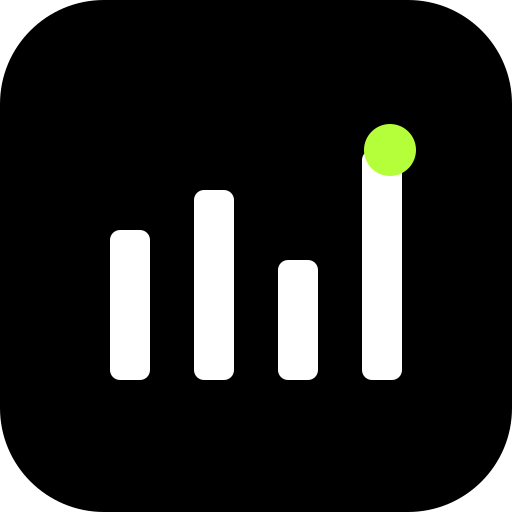
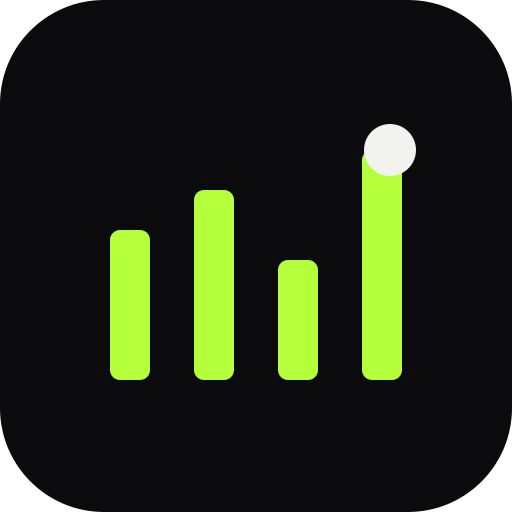
feat(theme): default to signature lime-on-near-black "employee" palette
- ThemeProvider default: light → employee
- index.html flash-prevention script defaults to employee, paints
  #0b0b0d on <html>/<body> via inline <style> so first paint doesn't
  flash white before Tailwind CSS loads
- Single <meta name="theme-color" content="#0b0b0d"> (dropped the
  prefers-color-scheme variants — the default is dark regardless)
- PWA manifest: theme_color #b4ff39 (lime), background_color #0b0b0d
  (near-black splash)
- Icons (icon.svg + icon-maskable.svg) rewritten from indigo gradient
  to near-black tile with lime pulse bars and a cream accent dot;
  PNGs regenerated via a scratch sharp install (favicon-32,
  apple-touch-icon, icon-192, icon-512, icon-maskable-512)

Matches the pulsehr.it marketing identity.

diff --git a/apps/app/index.html b/apps/app/index.html
@@ -3,8 +3,7 @@
   <head>
     <meta charset="UTF-8" />
     <meta name="viewport" content="width=device-width, initial-scale=1.0" />
-    <meta name="theme-color" content="#0b0b0d" media="(prefers-color-scheme: dark)" />
-    <meta name="theme-color" content="#fafaf7" media="(prefers-color-scheme: light)" />
+    <meta name="theme-color" content="#0b0b0d" />
     <meta name="description" content="Pulse HR is a modern HR, payroll and people platform for teams that want one surface instead of six." />
     <meta name="apple-mobile-web-app-capable" content="yes" />
     <meta name="apple-mobile-web-app-status-bar-style" content="black-translucent" />
@@ -18,13 +17,21 @@
     <link rel="preconnect" href="https://fonts.gstatic.com" crossorigin />
     <link rel="stylesheet" href="https://fonts.googleapis.com/css2?family=Fraunces:ital,opsz,wght@0,9..144,400;0,9..144,600;0,9..144,700;0,9..144,900;1,9..144,400&family=Geist:wght@300;400;500;600;700&family=JetBrains+Mono:wght@400;600&display=swap" />
     <title>Pulse HR — Modern HR & Payroll</title>
+    <style>
+      /* Paint the dark canvas before any CSS loads so the PWA splash and
+         initial route don't flash white on first paint. */
+      html, body { background-color: #0b0b0d; color: #f2f2ee; }
+      html[data-theme="light"], html[data-theme="light"] body { background-color: #fafaf7; color: #1a1a1d; }
+    </style>
     <script>
+      // Flash-prevention: set the theme on <html> before React paints. Default
+      // is the signature lime-on-near-black "employee" palette; every theme
+      // except "light" is dark-mode.
       (function () {
         try {
-          var t = localStorage.getItem("pulse.theme") || "light";
-          var darkThemes = ["dark", "employee", "hr", "admin", "manager", "finance"];
+          var t = localStorage.getItem("pulse.theme") || "employee";
           document.documentElement.dataset.theme = t;
-          if (darkThemes.indexOf(t) !== -1) document.documentElement.classList.add("dark");
+          if (t !== "light") document.documentElement.classList.add("dark");
         } catch (e) {}
       })();
     </script>

diff --git a/apps/app/vite.config.ts b/apps/app/vite.config.ts
@@ -37,8 +37,10 @@ export default defineConfig(({ mode }) => {
           short_name: "Pulse HR",
           description: "Modern HR, payroll and people platform — one surface for your whole team.",
           lang: "en",
-          theme_color: "#0b0b0d",
-          background_color: "#fafaf7",
+          // Signature lime-on-near-black identity. theme_color drives the
+          // Android status bar + title bar; background_color is the splash.
+          theme_color: "#b4ff39",
+          background_color: "#0b0b0d",
           display: "standalone",
           orientation: "any",
           start_url: "/",

diff --git a/apps/app/src/components/app/ThemeProvider.tsx b/apps/app/src/components/app/ThemeProvider.tsx
@@ -13,7 +13,8 @@ export const THEMES: { id: Theme; label: string; role?: string; swatch: string; 
 ];
 
 const STORAGE_KEY = "pulse.theme";
-const DEFAULT_THEME: Theme = "light";
+/** Signature lime-on-near-black palette matched to the marketing brand. */
+const DEFAULT_THEME: Theme = "employee";
 
 function readStored(): Theme {
   if (typeof window === "undefined") return DEFAULT_THEME;
